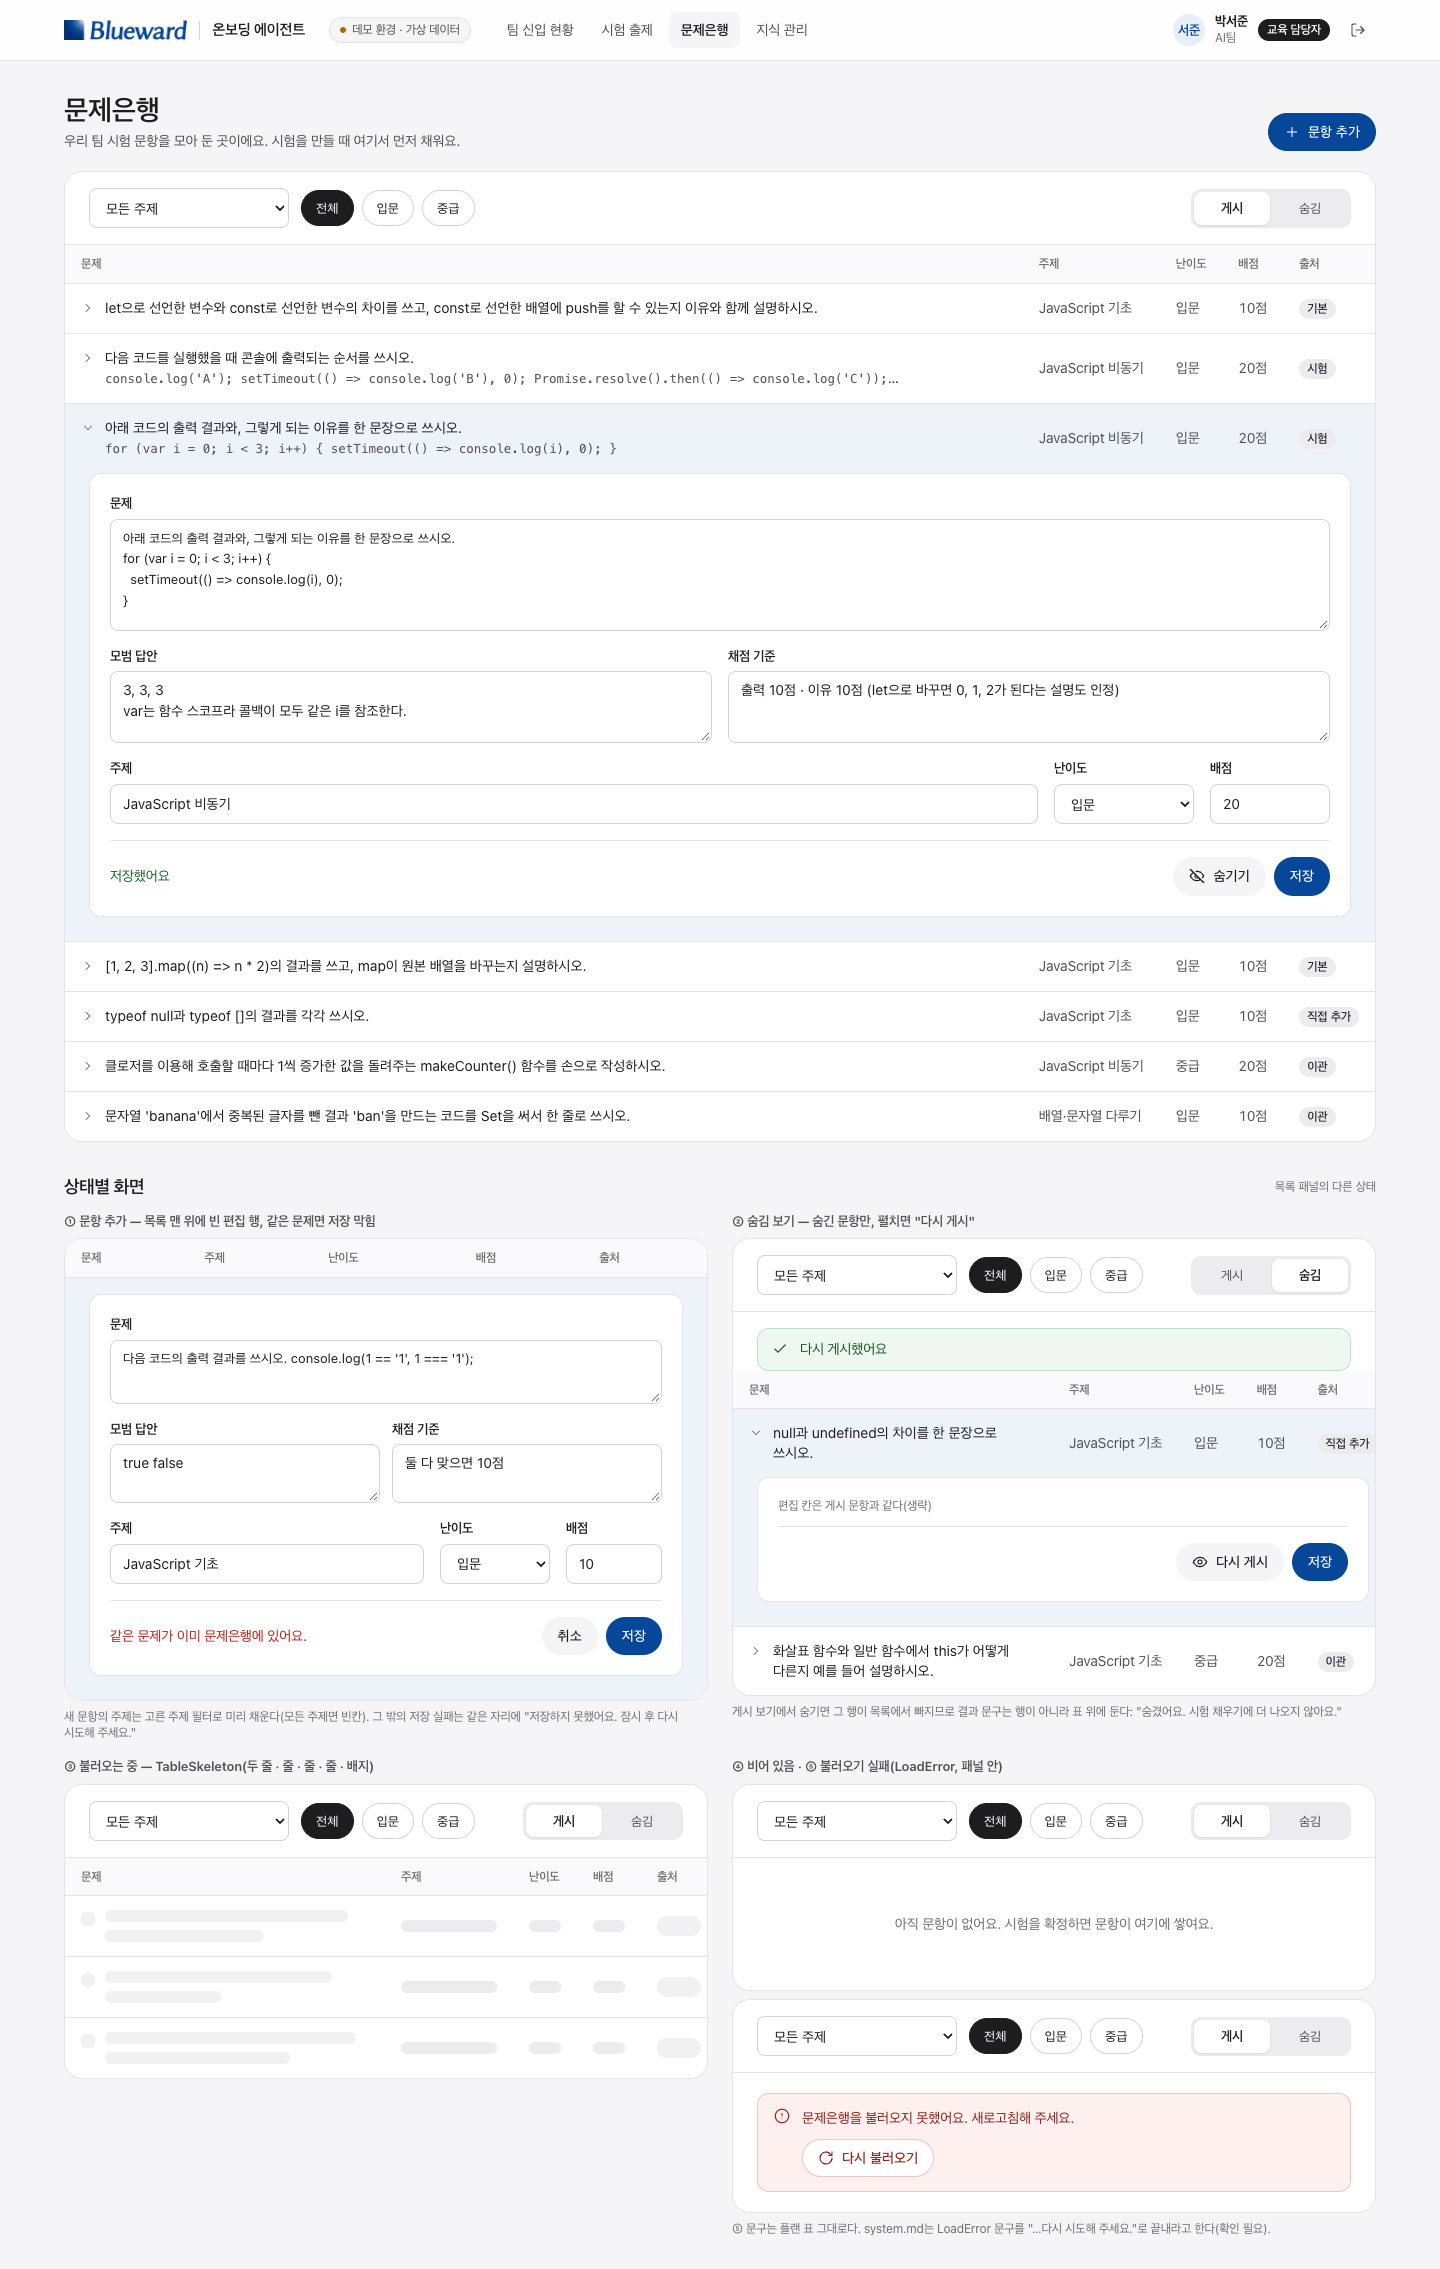
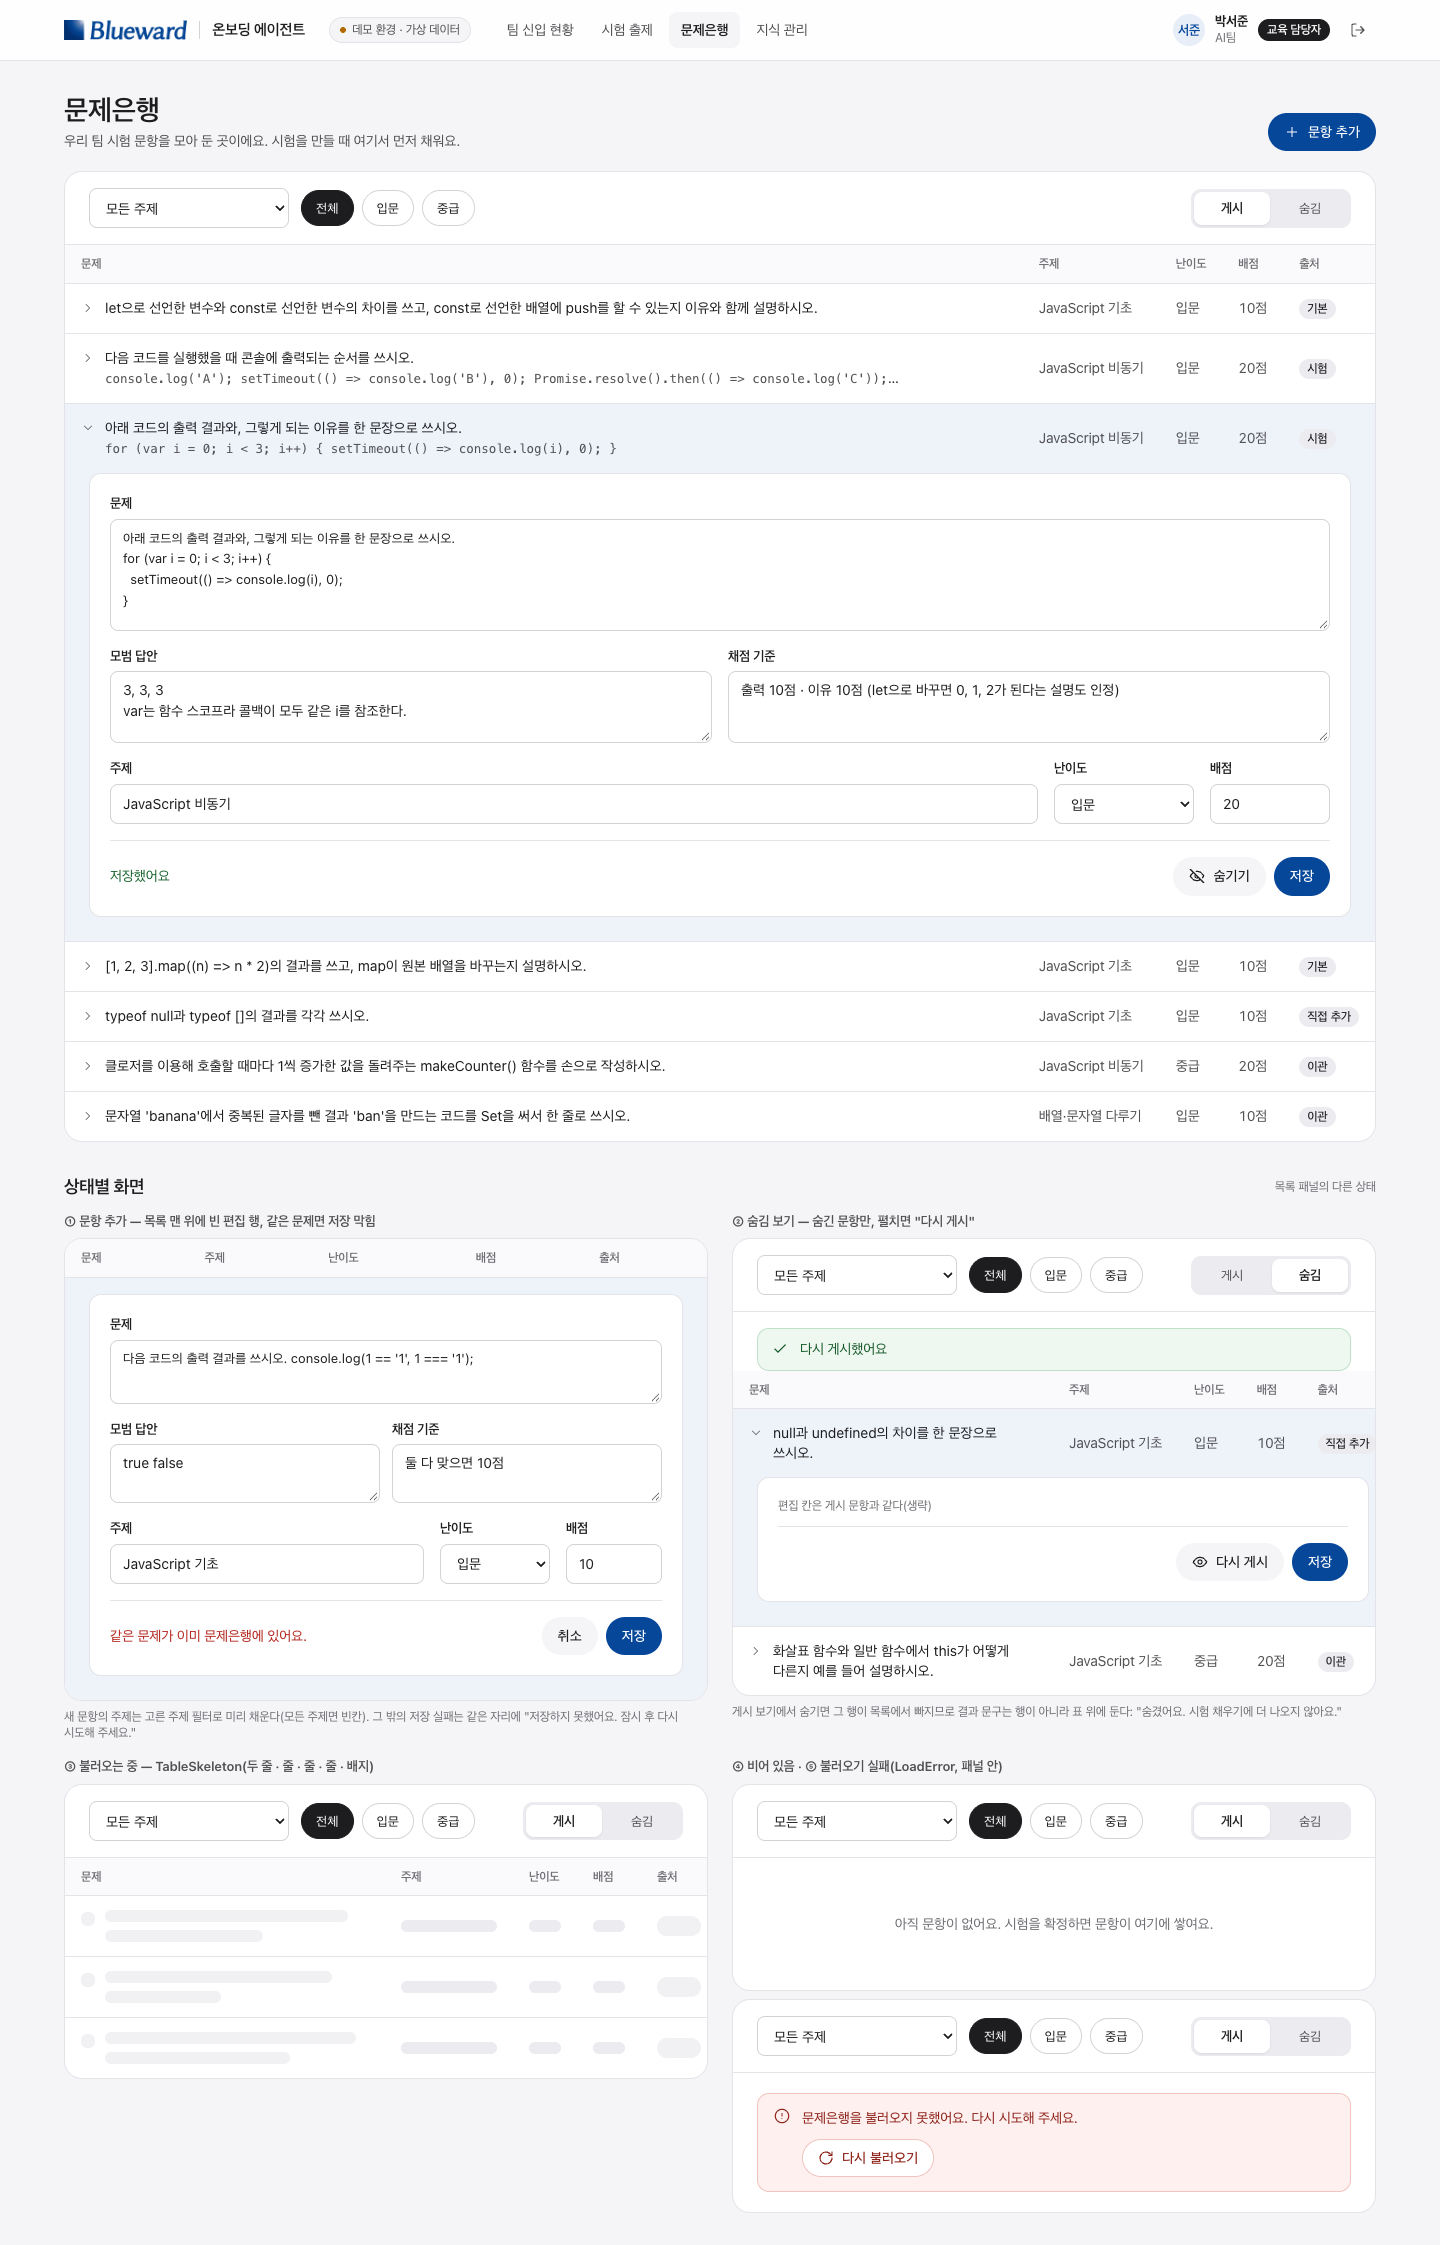
docs(design): use the LoadError copy rule on S13

diff --git a/docs/design/onboarding-design/screens/S13-bank.html b/docs/design/onboarding-design/screens/S13-bank.html
@@ -247,13 +247,12 @@ var는 함수 스코프라 콜백이 모두 같은 i를 참조한다.</textarea>
               <div class="alert alert-err" role="alert">
                 <svg class="ic" viewBox="0 0 24 24" aria-hidden="true"><circle cx="12" cy="12" r="10"></circle><path d="M12 8v4M12 16h.01"></path></svg>
                 <div class="col" style="gap: 10px; align-items: flex-start">
-                  <span>문제은행을 불러오지 못했어요. 새로고침해 주세요.</span>
+                  <span>문제은행을 불러오지 못했어요. 다시 시도해 주세요.</span>
                   <button type="button" class="btn btn-sm" style="background: var(--surface); border-color: var(--alert-err-border); color: var(--alert-err-fg)"><svg class="ic" viewBox="0 0 24 24" aria-hidden="true"><path d="M21 12a9 9 0 1 1-2.64-6.36L21 8"></path><path d="M21 3v5h-5"></path></svg>다시 불러오기</button>
                 </div>
               </div>
             </div>
           </div>
-          <span class="caption">⑤ 문구는 플랜 표 그대로다. system.md는 LoadError 문구를 "…다시 시도해 주세요."로 끝내라고 한다(확인 필요).</span>
         </div>
       </div>
     </section>
